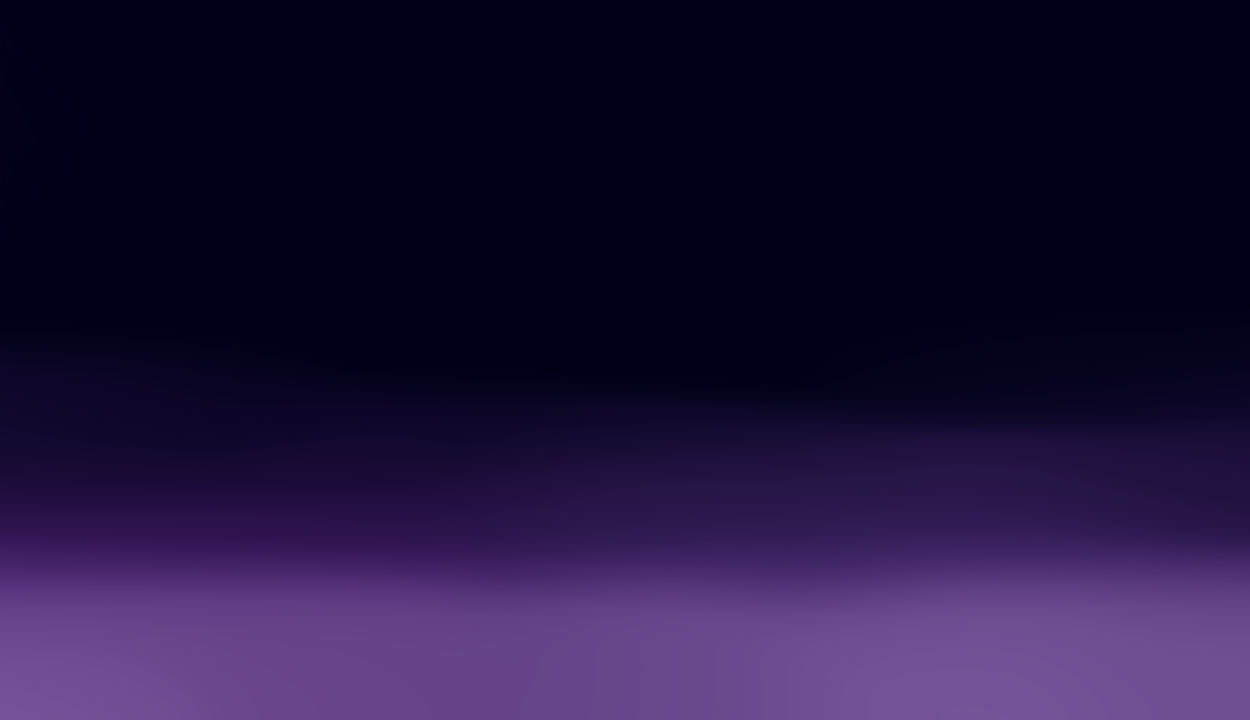
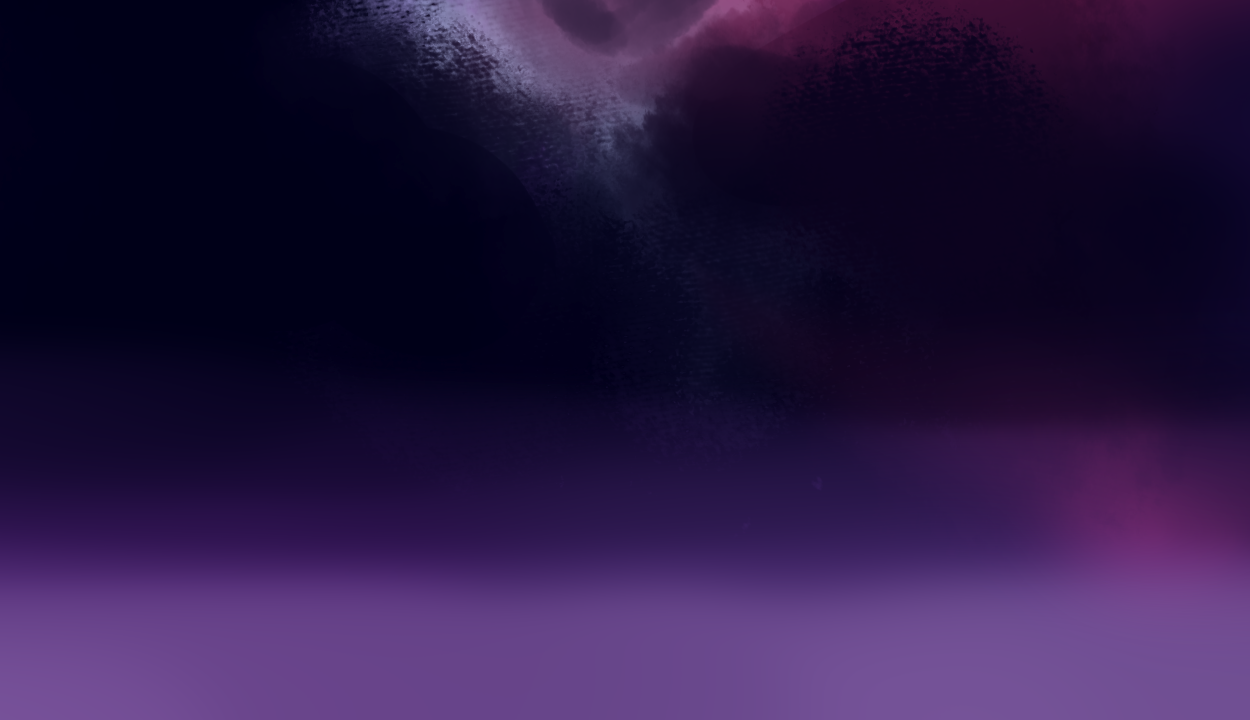
Got the player to display properly.

Changed region(s): [[0.2496, 0.0, 1.0, 0.3056], [0.78, 0.55, 1.0, 0.825]]

diff --git a/part1.html b/part1.html
@@ -26,10 +26,7 @@ function preload() {
     game.load.image('mid3', 'assets/middleground1-3.png');
     game.load.image('mid4', 'assets/middleground1-4.png');
     game.load.image('ground', 'assets/ground1-1.png');
-    game.load.spritesheet('dude', 'assets/StellaRun1.png', 32, 48);
-    game.load.spritesheet('bluestar', 
-    	'assets/bluestarspin_sheet.png', 32, 48);
-    game.load.spritesheet('stella', 'assets/StellaRun1Smol.png', 100, 250);
+    game.load.spritesheet('stella', 'assets/StellaRun1Smol.png', 100, 100);
 }
 
 function create() {
@@ -41,6 +38,11 @@ function create() {
     bg2 = game.add.sprite(1250, 0, 'bg2');
     bg3 = game.add.sprite(2500, 0, 'bg3');
     bg4 = game.add.sprite(3750, 0, 'bg4');
+    mid1 = game.add.sprite(0, -120, 'mid1');
+    mid2 = game.add.sprite(1250, -120, 'mid2');
+    mid3 = game.add.sprite(2500, -120, 'mid3');
+    mid4 = game.add.sprite(3750, -120, 'mid4');
+
 
     //  The platforms group contains the ground and the 2 ledges we can jump on
     platforms = game.add.group();
@@ -105,16 +107,20 @@ function update() {
 			background.x -= 1;      
 		} else {}        
 		background.x -=1;    }
-	var moveMiddleground = function(middleground) {      
+	var moveMiddleground = function(background) {      
 		if (background.x < -1250) {        
 			background.x = 3750;        
-			background.x -= 1;      
+			background.x -= 2.5;      
 		} else {}        
-		background.x -=1;    }
+		background.x -=2.5;    }
 	moveBackground(bg1);    
 	moveBackground(bg2);
 	moveBackground(bg3);    
-	moveBackground(bg4); 
+	moveBackground(bg4);
+	moveMiddleground(mid1);
+	moveMiddleground(mid2);
+	moveMiddleground(mid3);
+	moveMiddleground(mid4);
 }
 
 	var hitPlatform = game.physics.arcade.collide(player, platforms);
